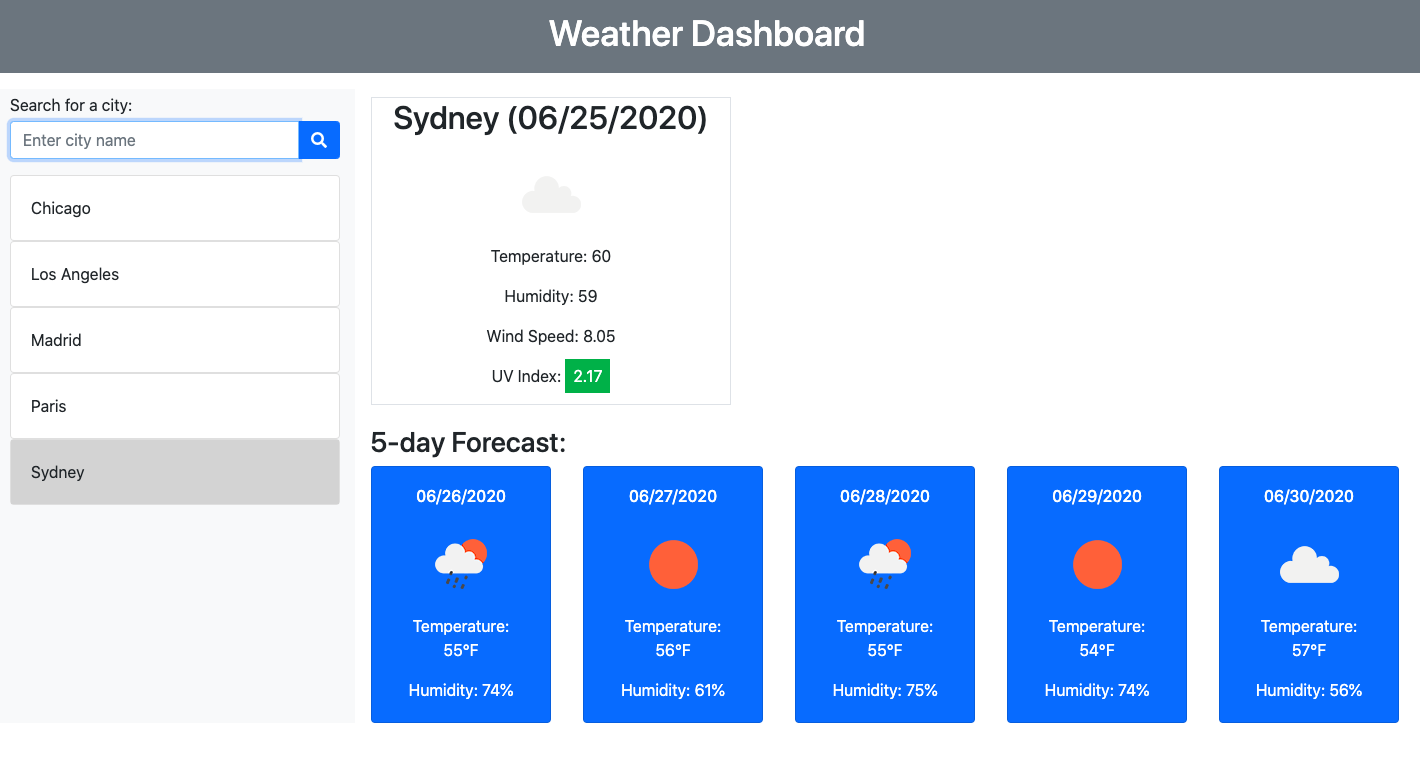
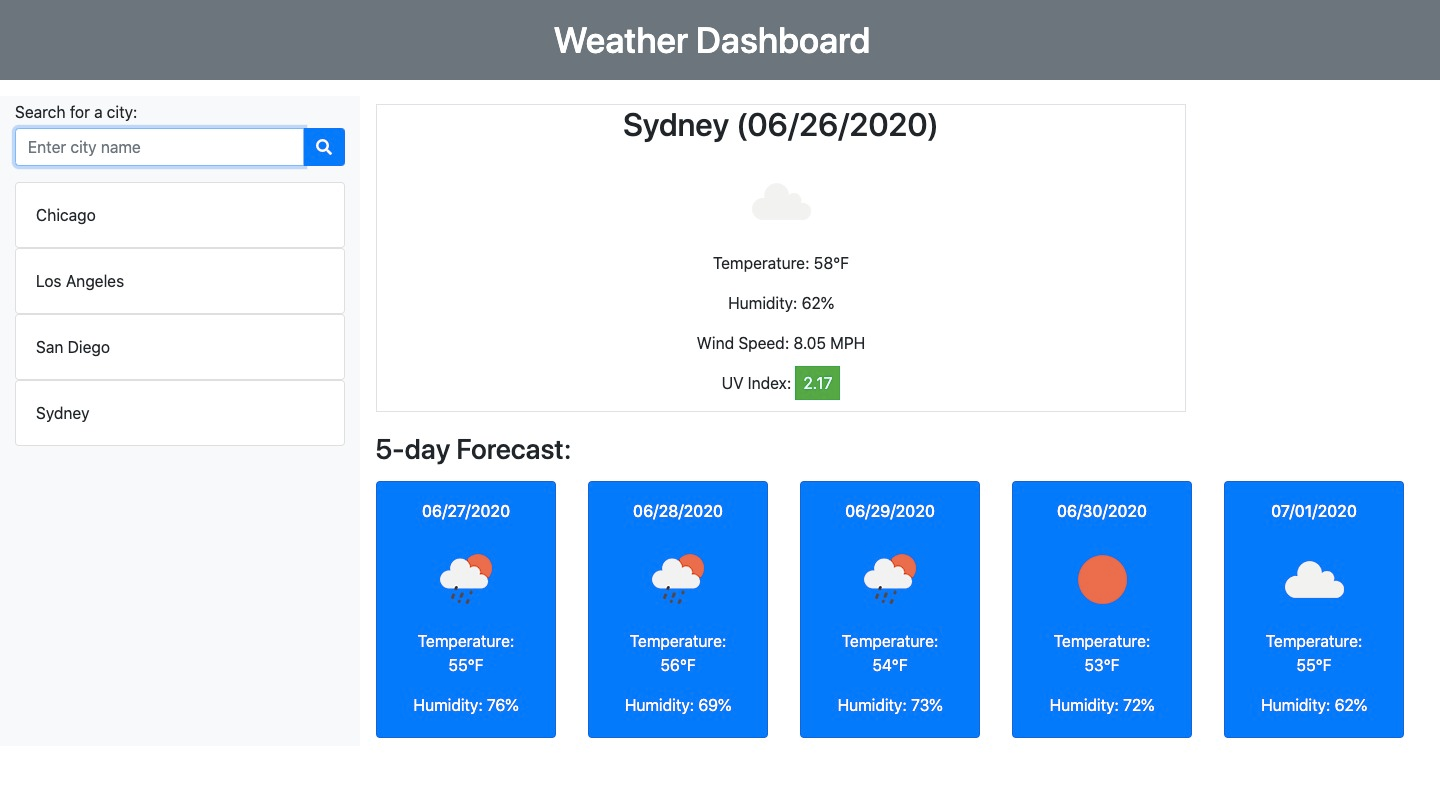
updated screenshot

diff --git a/assets/js/script.js b/assets/js/script.js
@@ -54,7 +54,7 @@ var displayCurrentData = function(city, data) {
 
     //create HTML for city/date/icon
     currentContainerEl.textContent = ""
-    currentContainerEl.setAttribute("class", "m-3 border col-md-9 text-center")
+    currentContainerEl.setAttribute("class", "m-3 border col-10 text-center")
     var divCityHeader = document.createElement("div")
     var headerCityDate = document.createElement("h2");
     var currentdate = moment().format("L");
